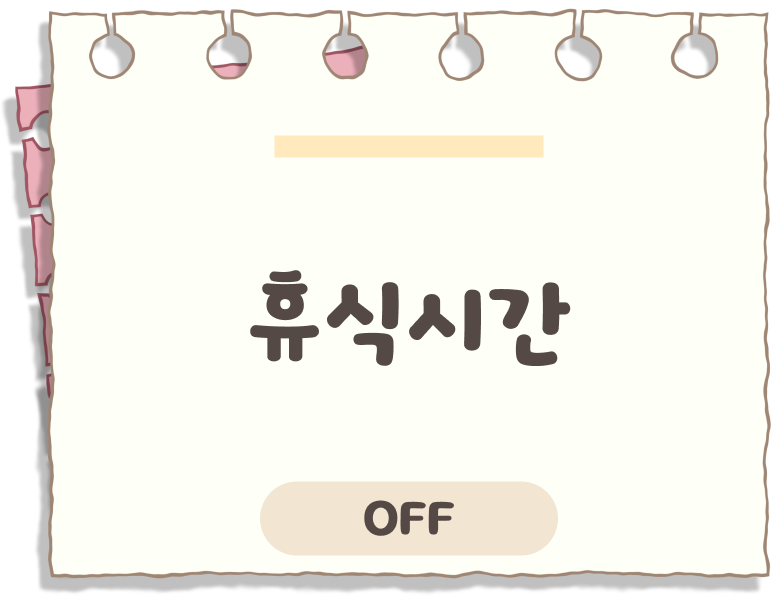
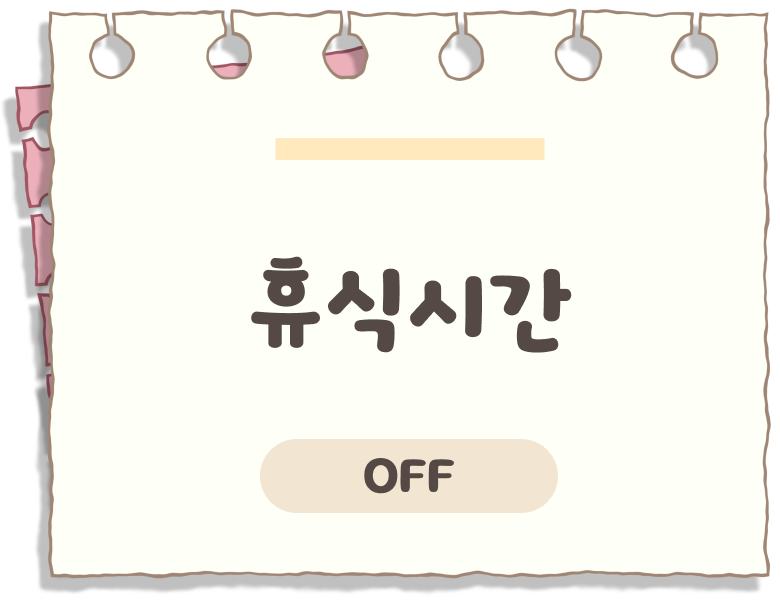
Feat: main title 수정

Changed region(s): [[0.3077, 0.72, 0.7385, 0.93], [0.3077, 0.42, 0.7385, 0.63], [0.3385, 0.21, 0.7077, 0.27]]

diff --git a/src/app/(root)/time-table/39fc5668-36d2-4031-9ea5-6cae8b5f2cc6/_components/TimeTableCell.tsx b/src/app/(root)/time-table/39fc5668-36d2-4031-9ea5-6cae8b5f2cc6/_components/TimeTableCell.tsx
@@ -95,7 +95,7 @@ const CardStreamingDateAndDay = ({
         width: 300,
         height: 100,
         lineHeight: 1,
-        fontSize: 72,
+        fontSize: 64,
         left: 260,
         top: 76,
       }}
@@ -119,9 +119,9 @@ const CardStreamingTime = ({
         width: 300,
         height: 100,
         lineHeight: 1,
-        fontSize: 70,
-        left: 264,
-        top: 460,
+        fontSize: 64,
+        left: 260,
+        top: 420,
       }}
       className=" absolute flex justify-center items-center"
     >
@@ -134,12 +134,12 @@ const CardMainTitle = ({ currentTheme, content, day }: CardMainTitleProps) => {
   return (
     <div
       style={{
-        height: 240,
-        width: 560,
-        top: 160,
-        left: 132,
+        height: 160,
+        width: 640,
+        top: 188,
+        left: 90,
       }}
-      className="absolute flex justify-center items-center shrink-0"
+      className="absolute flex justify-center items-center shrink-0 "
     >
       <AutoResizeText
         style={{
@@ -148,7 +148,6 @@ const CardMainTitle = ({ currentTheme, content, day }: CardMainTitleProps) => {
           lineHeight: 0.8,
         }}
         className="leading-none text-center"
-        multiline={true}
         maxFontSize={MAX_FONT_SIZES.MAIN_TITLE}
       >
         {content ? (content as string) : placeholders.mainTitle}
@@ -163,7 +162,7 @@ const CardSubTitle = ({ content, day }: CardSubTitleProps) => {
       style={{
         width: 560,
         height: 80,
-        top: 388,
+        top: 340,
         left: 132,
       }}
       className="absolute flex justify-center items-center"
@@ -176,7 +175,6 @@ const CardSubTitle = ({ content, day }: CardSubTitleProps) => {
         }}
         className="leading-none text-center w-full"
         maxFontSize={MAX_FONT_SIZES.SUB_TITLE}
-        multiline
       >
         {content ? (content as string) : placeholders.subTitle}
       </AutoResizeText>
@@ -199,6 +197,23 @@ const OnlineCardBG = ({ day }: OnlineCardBGProps) => {
       <img
         className="object-cover w-full h-full"
         src={Imgs['first']['online'].src.replace('./', '/')}
+        alt="online"
+      />
+    </div>
+  );
+};
+
+const CardOverlay = ({ day }: OnlineCardBGProps) => {
+  return (
+    <div
+      style={{
+        ...CARD_SIZES.ONLINE,
+      }}
+      className="absolute z-50 opacity-40"
+    >
+      <img
+        className="object-cover w-full h-full"
+        src={Imgs['first']['online_overlay'].src.replace('./', '/')}
         alt="online"
       />
     </div>
@@ -271,8 +286,9 @@ const TimeTableCell: React.FC<TimeTableCellProps> = ({
           className="relative flex justify-center"
         >
           <CardStreamingDateAndDay day={time.day} date={weekDate.getDate()} />
-          <CardSubTitle content={entrySubTitle} day={time.day} />
           <CardMainTitle content={entryMainTitle} day={time.day} />
+          <CardSubTitle content={entrySubTitle} day={time.day} />
+
           <CardStreamingTime
             isGuerrilla={primaryEntry.isGuerrilla}
             time={entryTime}

diff --git a/src/app/(root)/time-table/39fc5668-36d2-4031-9ea5-6cae8b5f2cc6/_img/imgs.ts b/src/app/(root)/time-table/39fc5668-36d2-4031-9ea5-6cae8b5f2cc6/_img/imgs.ts
@@ -8,6 +8,7 @@ import TopObject from './main/top_object.png';
 
 // Online images
 import OnlineImg from './main/online.png';
+import CardOverlay from './main/online_sample.png';
 
 // Offline images
 import OfflineImg from './main/offline.png';
@@ -23,6 +24,7 @@ export const Imgs: ImgsType = {
     topObject: TopObject,
     offline: OfflineImg,
     online: OnlineImg,
+    online_overlay: CardOverlay,
     profileFrame: MainProfileFrame,
   },
 };

diff --git a/src/app/(root)/time-table/39fc5668-36d2-4031-9ea5-6cae8b5f2cc6/_settings/settings.ts b/src/app/(root)/time-table/39fc5668-36d2-4031-9ea5-6cae8b5f2cc6/_settings/settings.ts
@@ -150,8 +150,8 @@ export const CARD_INPUT_CONFIG: CardInputConfig = {
     },
     {
       key: 'mainTitle',
-      type: 'textarea',
-      placeholder: '메인 타이틀\n적는 곳',
+      type: 'text',
+      placeholder: '메인 타이틀 적는 곳',
       defaultValue: '',
       maxLength: 200,
     },
